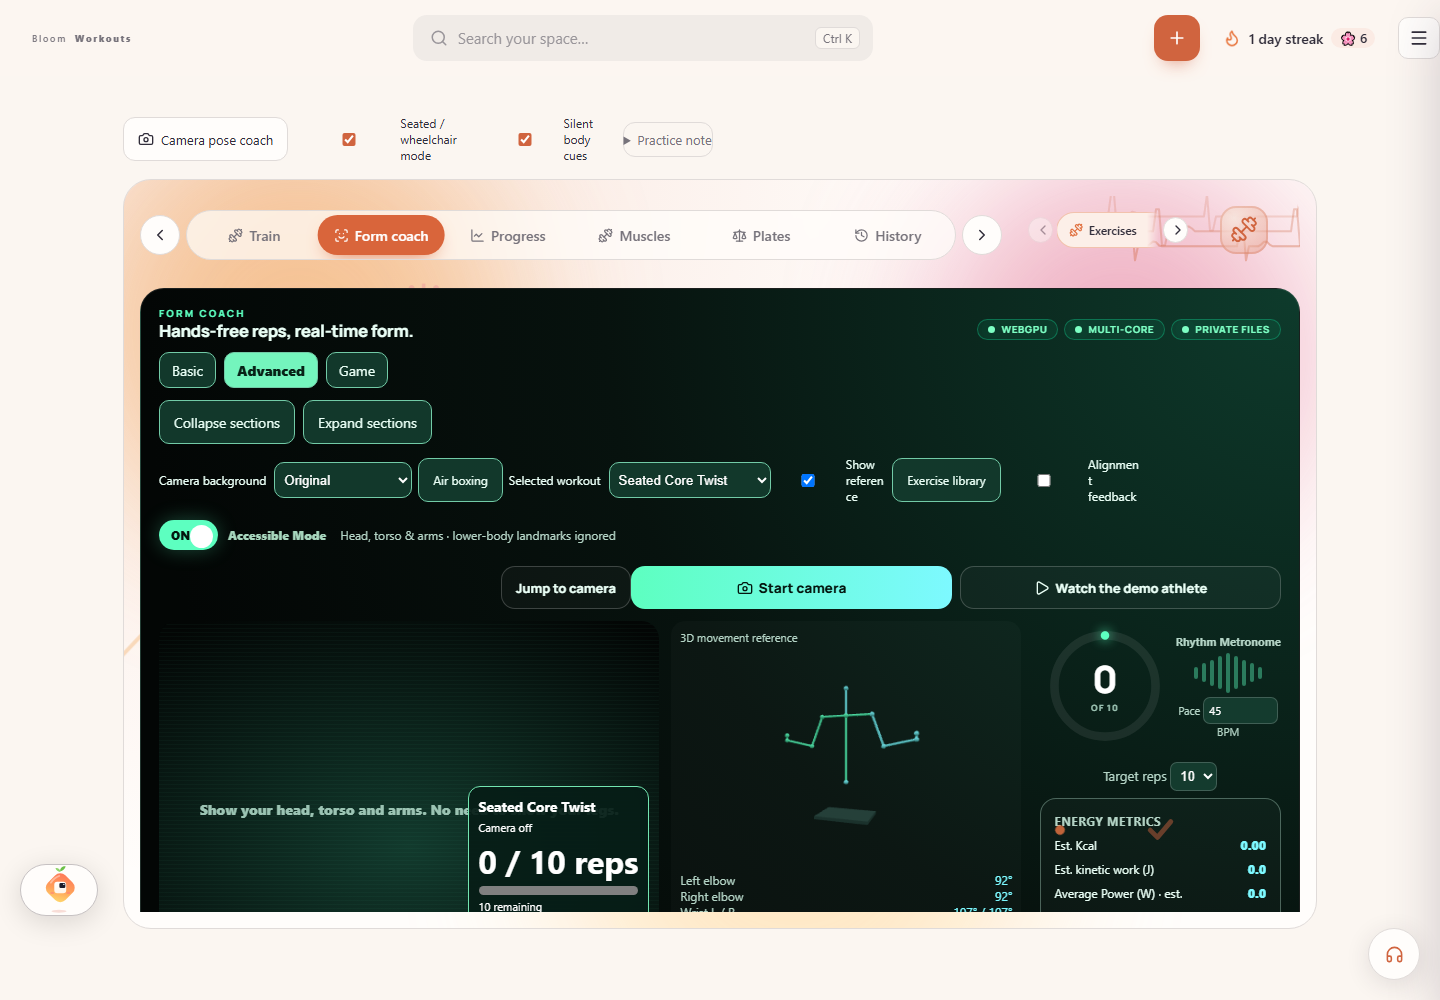
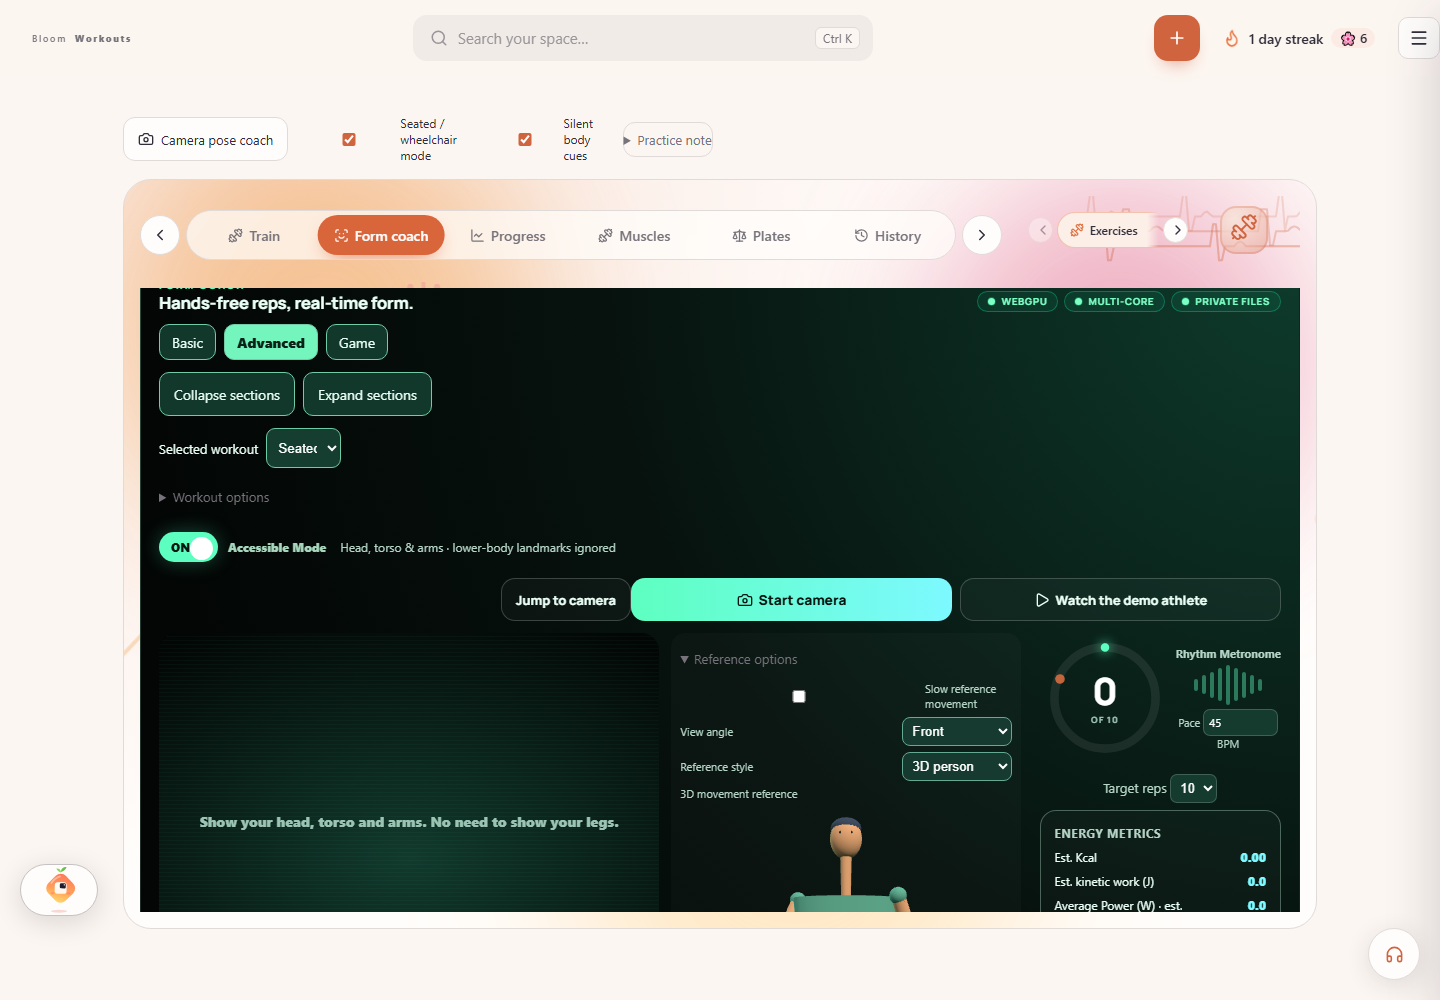
test(coach): verify reachable controls across fullscreen and phone layouts

diff --git a/e2e/form-coach.spec.ts b/e2e/form-coach.spec.ts
@@ -41,6 +41,7 @@ test('camera denial recovers with clear feedback and a working demo', async ({ p
 })
 
 test('either-hand hovering changes exercises, logs one set, and finishes from fullscreen', async ({ page }) => {
+  test.setTimeout(120000)
   await page.route(/(?:node_modules\/\.vite\/deps\/@mediapipe_tasks-vision|assets\/vision_bundle)[^/]*\.js(?:\?.*)?$/, async (route) => route.fulfill({ contentType: 'text/javascript', body: `
     export const FilesetResolver = { forVisionTasks: async () => ({}) };
     export const PoseLandmarker = { createFromOptions: async () => ({ detectForVideo: () => ({ landmarks: window.__coachPose ? [window.__coachPose] : [], segmentationMasks: [{ width: 2, height: 2, getAsFloat32Array: () => new Float32Array([0, 1, 0, 1]), close: () => {} }] }), close: () => { window.__coachClosed = true; } }) };
@@ -70,7 +71,8 @@ test('either-hand hovering changes exercises, logs one set, and finishes from fu
   const offBalance = upperPose('seatedTwist', 0); offBalance[12].y += .16; await send(offBalance)
   await expect.poll(() => page.locator('.fc-canvas').evaluate((node: HTMLCanvasElement) => { const data = node.getContext('2d')!.getImageData(0, 0, node.width, node.height).data; let red = 0; for (let i = 0; i < data.length; i += 4) if (data[i] > 200 && data[i + 1] < 120 && data[i + 2] < 120 && data[i + 3]) red++; return red })).toBeGreaterThan(30)
   await send(upperPose('seatedTwist', 0)); await page.waitForTimeout(600)
-  await send(upperPose('seatedTwist', .5)); await page.waitForTimeout(900)
+  await send(upperPose('seatedTwist', .5))
+  await expect.poll(async () => parseInt((await page.locator('.fc-side-status').first().textContent()) ?? ''), { timeout: 10000 }).toBeGreaterThan(40)
   await send(upperPose('seatedTwist', 0))
   await expect(page.locator('.fc-count')).toHaveText('1')
   await send([])
@@ -164,6 +166,7 @@ test('Basic defaults to essentials and fullscreen keeps the reference, count and
     return guide.x - camera.x - camera.width
   }).toBeGreaterThan(-2)
   const cameraBox = (await page.locator('.fc-view').boundingBox())!
+  await page.screenshot({ path: 'docs/screenshots/form-coach-reachable-fullscreen.png' })
   const controls = (await page.getByRole('button', { name: 'Log set', exact: true }).boundingBox())!
   expect(controls.x).toBeLessThan(cameraBox.x + cameraBox.width / 2)
   if (await page.getByRole('button', { name: 'More controls', exact: true }).isEnabled()) await page.getByRole('button', { name: 'More controls', exact: true }).click()
@@ -261,4 +264,25 @@ test('camera action pages are spacious and progress stays beneath the reference'
   await page.getByText('Coach settings', { exact: true }).click()
   await expect(page.getByRole('combobox', { name: 'Reach side', exact: true })).toHaveValue('right')
   await expect(page.getByRole('combobox', { name: 'Hand hold time', exact: true })).toHaveValue('5')
+})
+
+
+test('narrow fullscreen pages show one spacious action with reachable arrows', async ({ page }) => {
+  await page.setViewportSize({ width: 390, height: 844 })
+  await page.addInitScript(() => localStorage.removeItem('bloom-coach-view'))
+  await page.goto('/#workouts/coach', { waitUntil: 'domcontentloaded' })
+  await page.getByRole('button', { name: 'Watch the demo athlete', exact: true }).click()
+  await page.getByRole('button', { name: 'Fullscreen workout', exact: true }).click()
+  await expect(page.locator('.fc-control-actions button')).toHaveCount(1)
+  const camera = (await page.locator('.fc-view').boundingBox())!, action = (await page.locator('.fc-control-actions button').boundingBox())!
+  await page.screenshot({ path: 'docs/screenshots/form-coach-reachable-mobile.png' })
+  expect(action.width).toBeGreaterThan(100)
+  expect(action.x).toBeGreaterThanOrEqual(camera.x)
+  expect(action.x + action.width).toBeLessThanOrEqual(camera.x + camera.width + 1)
+  await page.getByRole('button', { name: 'More controls', exact: true }).click()
+  await expect(page.getByRole('button', { name: 'Log set', exact: true })).toBeVisible()
+  await page.getByRole('button', { name: 'Previous controls', exact: true }).click()
+  await expect(page.getByRole('button', { name: 'Pause', exact: true })).toBeVisible()
+  await expect(page.locator('.fc-guide-column .fc-workout-hud')).toBeVisible()
+  await expect(page.locator('.fc-guide-column .fc-reference')).toBeVisible()
 })

diff --git a/docs/FORM_COACH_REACHABILITY.md b/docs/FORM_COACH_REACHABILITY.md
@@ -41,3 +41,17 @@ Each improvement is committed and pushed separately.
 - [x] 19. fold secondary workout options to reduce page buttons and scrolling
 
 - [x] 20. adapt reachable controls and side guidance to small screens with clear focus states
+
+## Using the camera controls
+
+The Set page contains Pause/Resume, Log set and Finish. Use the SVG arrows for the Workout page: Previous, Next workout and Fullscreen/Exit fullscreen. Narrow previews show one large action per page. Finish asks you to confirm and pauses counting while you decide. Moving your hand away for half a second rearms the controls, including after changing pages.
+
+Coach settings contains the preferred reach side and hold time; both persist locally. Reference options contains the person/skeleton view, viewing angle and slow-motion toggle. Progress, workout name and encouragement are beneath the reference in both regular and fullscreen views.
+
+## Verification
+
+- Production build, TypeScript and targeted lint passed.
+- 47 tracking, scoring and gesture unit tests passed.
+- All 10 browser scenarios passed across the main run and targeted reruns, including both-hand hover actions, duplicate-log protection, finish confirmation, desktop spacing, and the 390px phone layout.
+- Webcam checks used simulated landmarks and a generated camera stream; physical-camera tracking accuracy was not measured.
+- Updated desktop and mobile screenshots are in `docs/screenshots/form-coach-reachable-*.png`.
